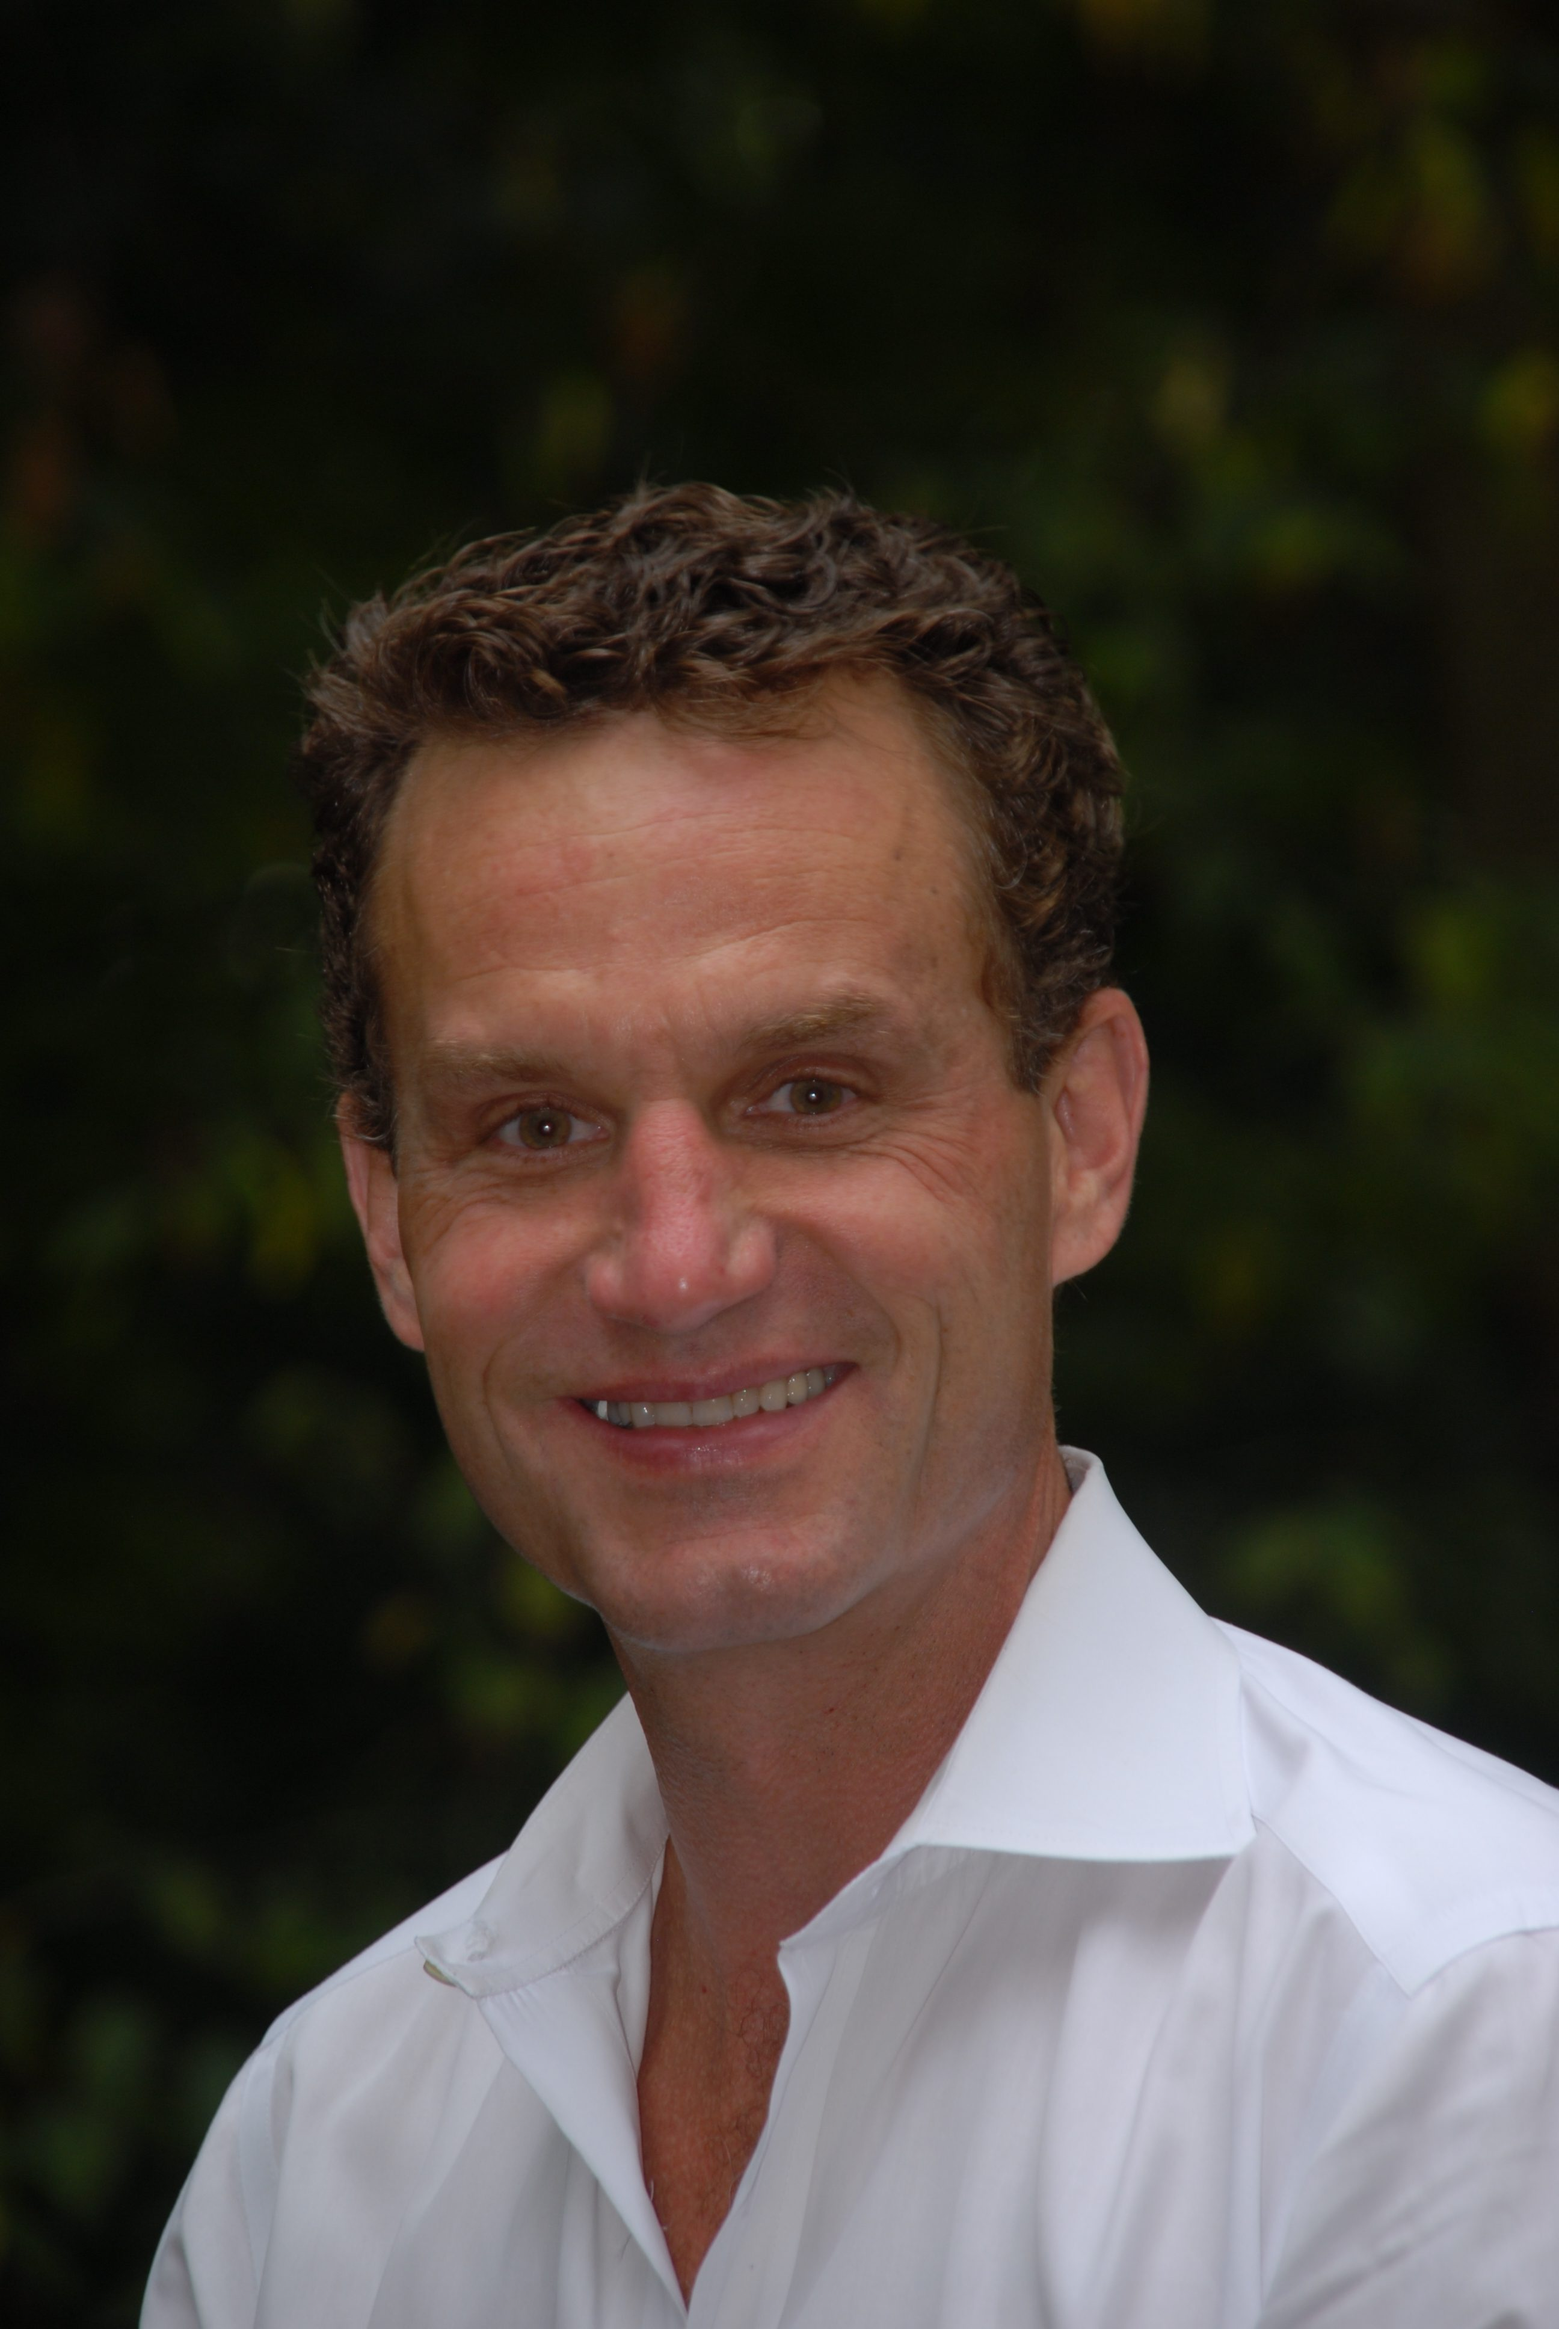
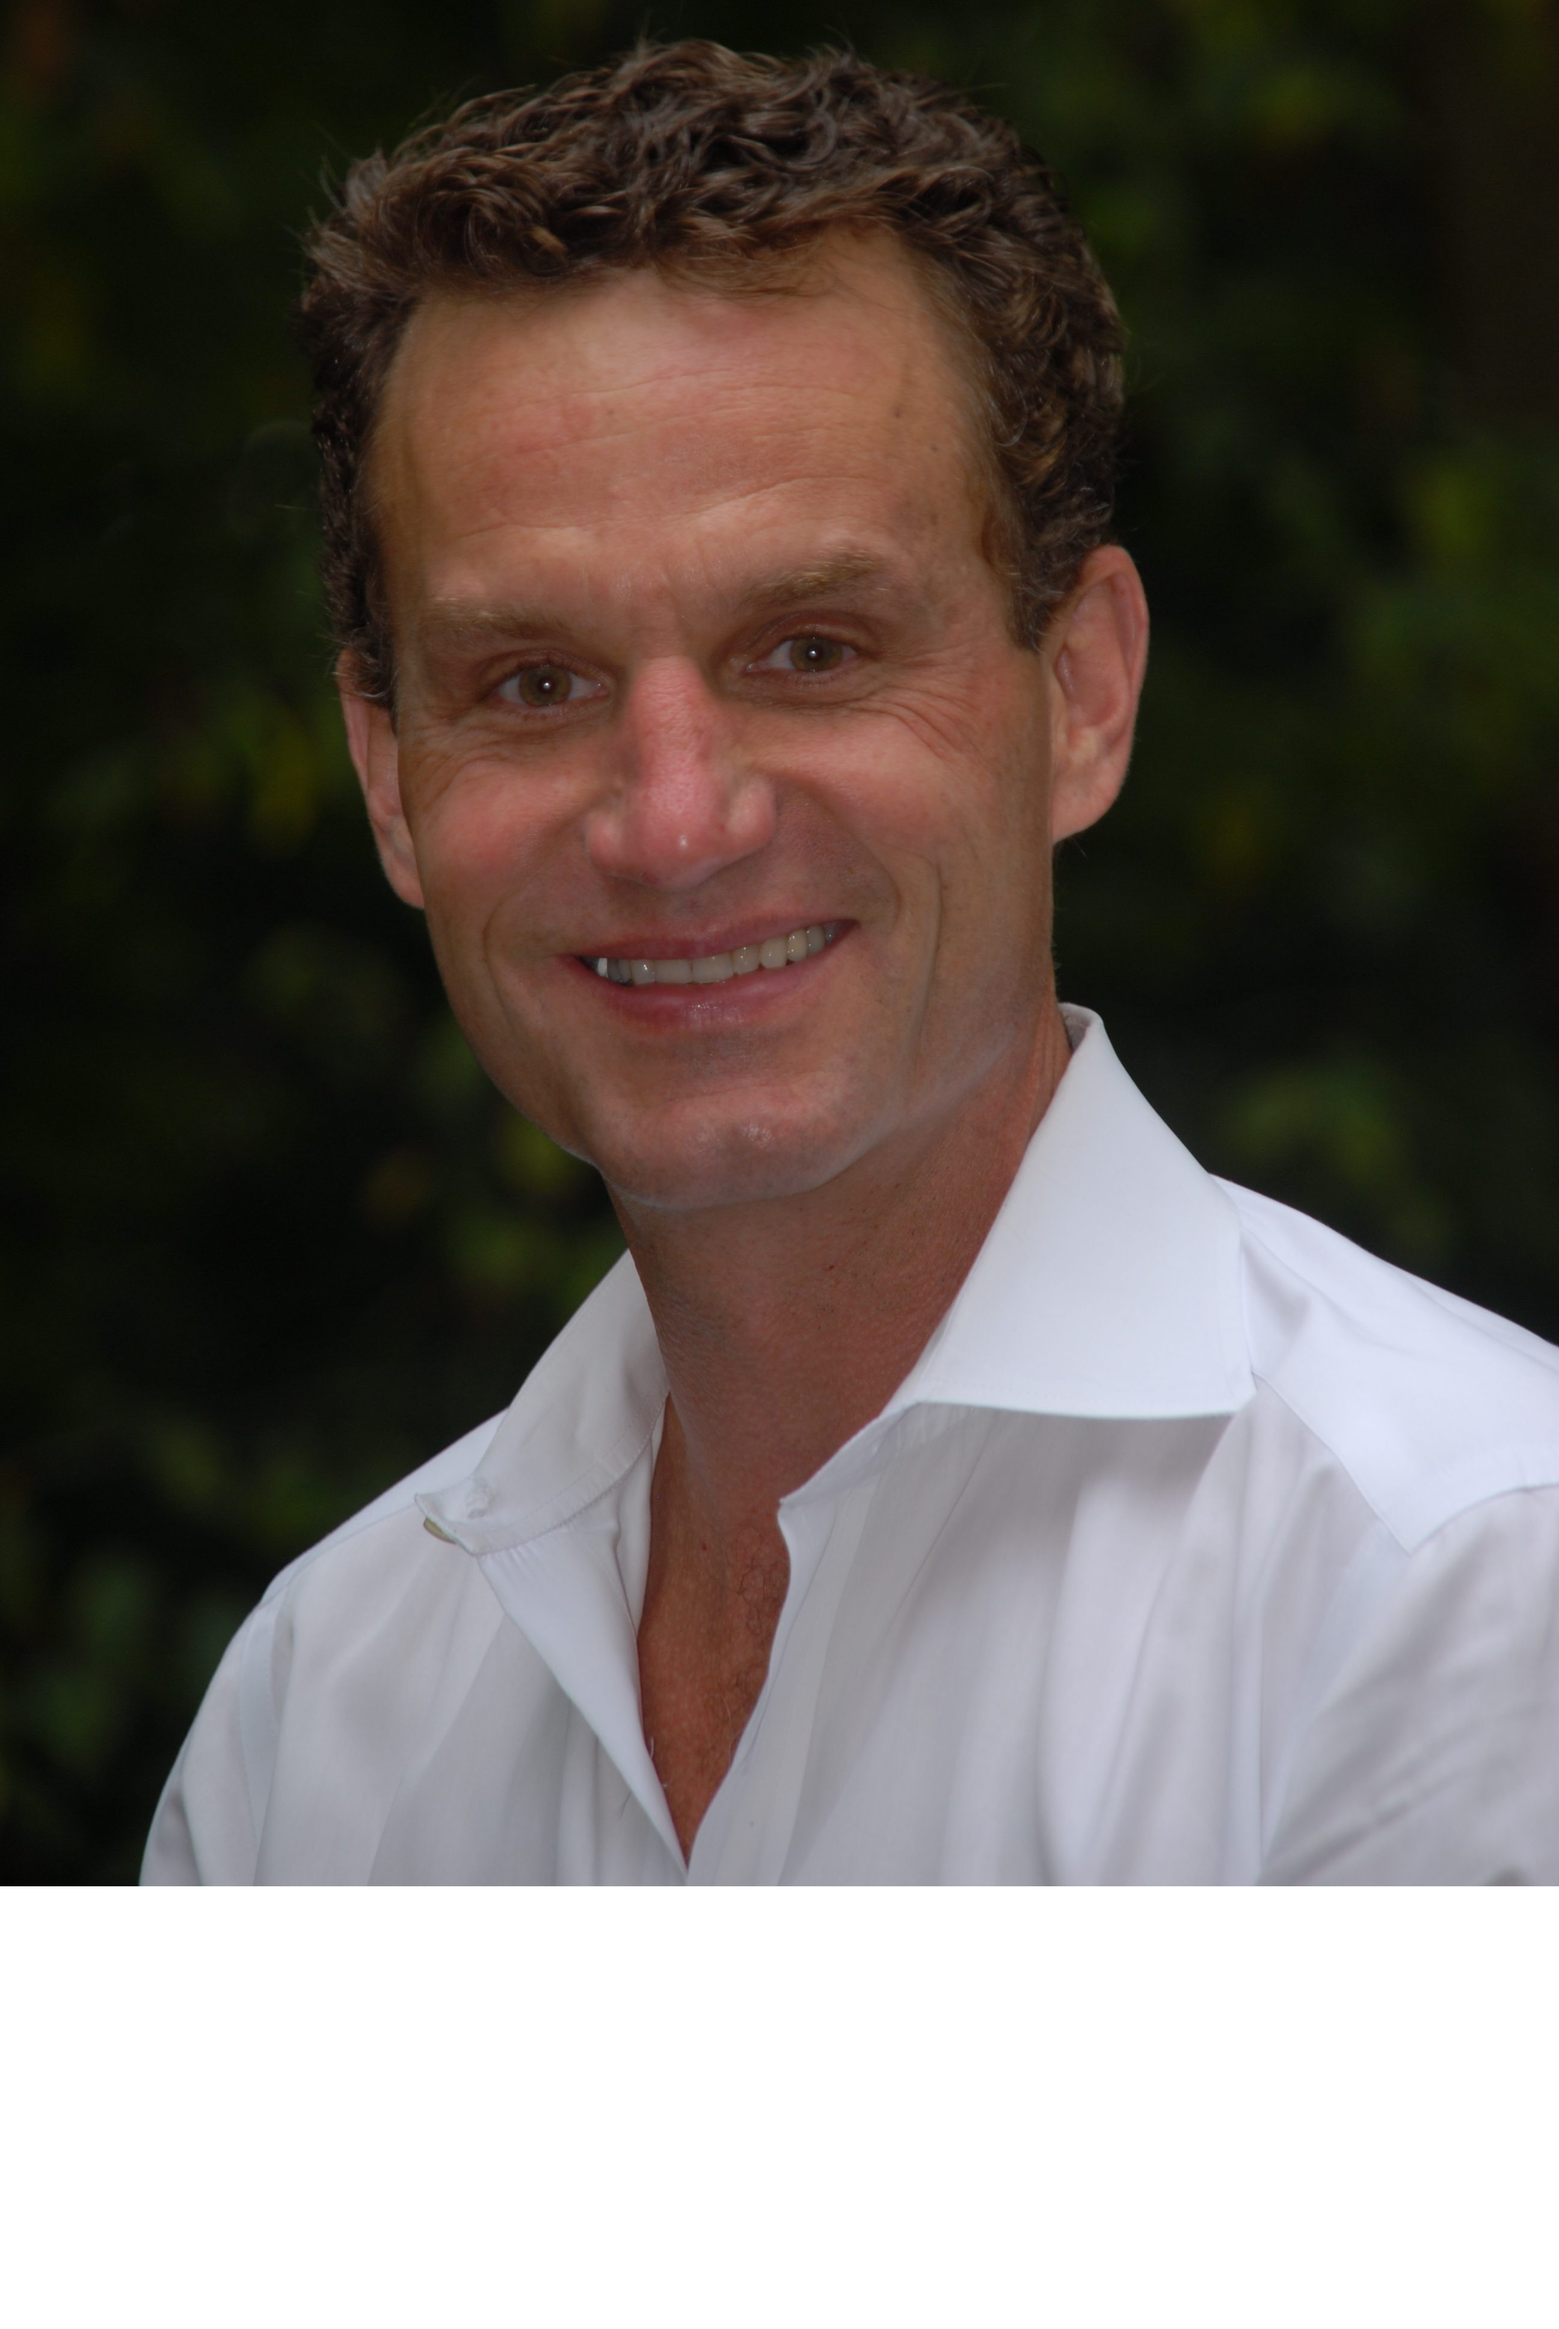
Edited Photos and resized about images, raised map

diff --git a/src/views/About/index.js b/src/views/About/index.js
@@ -1,17 +1,17 @@
 import React, { Component } from 'react';
 import './about.css';
 import EmployeeSquare from '../../components/EmployeeSquare';
-import LaurenRiley from '../../assets/team/Lauren-Riley1.1.png';
-import JenniferHobbs from '../../assets/team/Jennifer-Hobbs1.1.jpg';
-import WendyRichmond from '../../assets/team/Wendy-Richmond1.1.jpg';
-import JoanneHolman from '../../assets/team/Joanne-Holman1.1.jpg';
+import LaurenRiley from '../../assets/team/Lauren-Riley.png';
+import JenniferHobbs from '../../assets/team/Jennifer-Hobbs.jpg';
+import WendyRichmond from '../../assets/team/Wendy-Richmond.jpg';
+import JoanneHolman from '../../assets/team/Joanne-Holman.jpg';
 import MaryAnnLucas from '../../assets/team/Mary-Ann-Lucas.jpg';
 import AnnZimmerman from '../../assets/team/Ann-Zimmerman.jpg';
 import TimOwen from '../../assets/team/Tim-Owen-test.jpg';
 import PeterKerfoot from '../../assets/team/Pete-Kerfoot.jpg';
-import MarkSawyer from '../../assets/team/Mark-Sawyer1.1.jpg';
-import JessicaLeavell from '../../assets/team/Jessica-Leavell1.1.jpg';
-import JulieKelch from '../../assets/team/Julie-Kelch1.1.jpg';
+import MarkSawyer from '../../assets/team/Mark-Sawyer.jpg';
+import JessicaLeavell from '../../assets/team/Jessica-Leavell.jpg';
+import JulieKelch from '../../assets/team/Julie-Kelch.jpeg';
 import KristenPetty from '../../assets/team/Kristen-Petty.jpg';
 import RickZirkle from '../../assets/team/Rick-Zirkle.jpg';
 import ScottNoel from '../../assets/team/Scott-Noel.jpg';

diff --git a/src/views/Contact/contact.css b/src/views/Contact/contact.css
@@ -40,7 +40,7 @@
 	display: flex;
 	justify-content: center;
 	width: 100%;
-	height: 59vh;
+	height: 50vh;
 }
 
 .contact-form > div {
@@ -106,7 +106,7 @@
 	.social {
 		float: left;
 		width: 50%;
-		height: 60vh;
+		height: 45vh;
 	}
 
 	.social > div {
@@ -117,6 +117,6 @@
 	.contact-form {
 		float: right;
 		width: 50%;
-		height: 60vh;
+		height: 45vh;
 	}
 }
